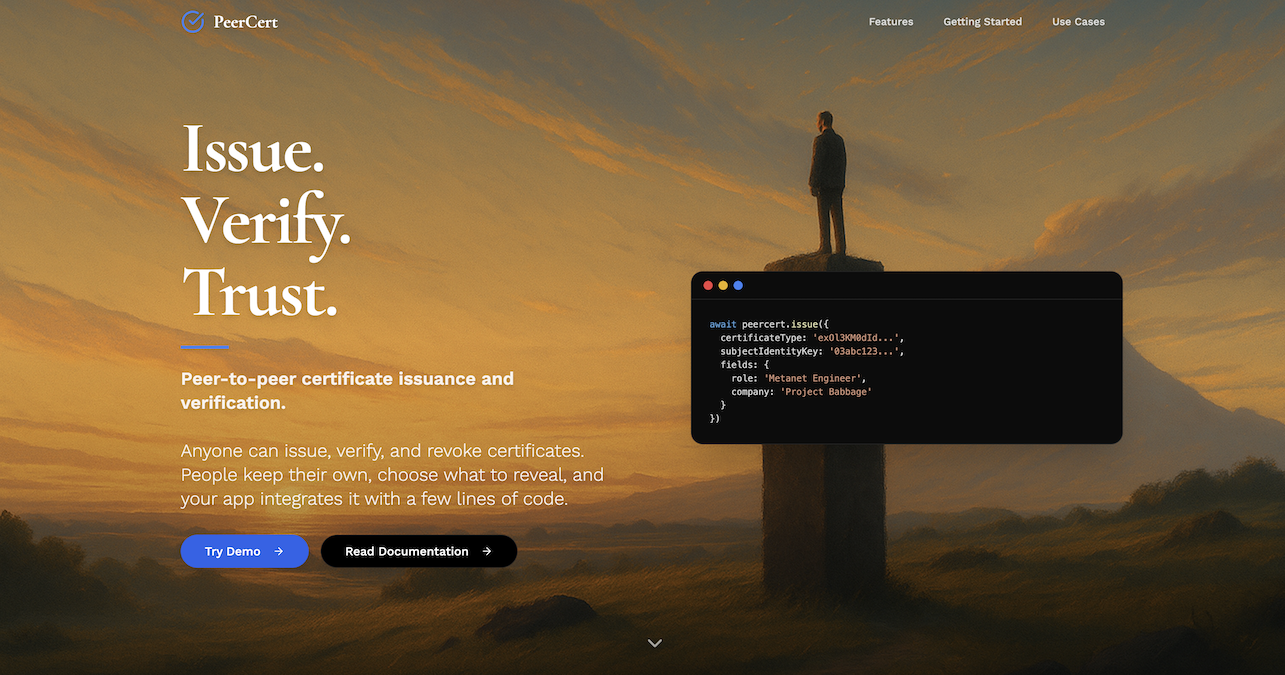
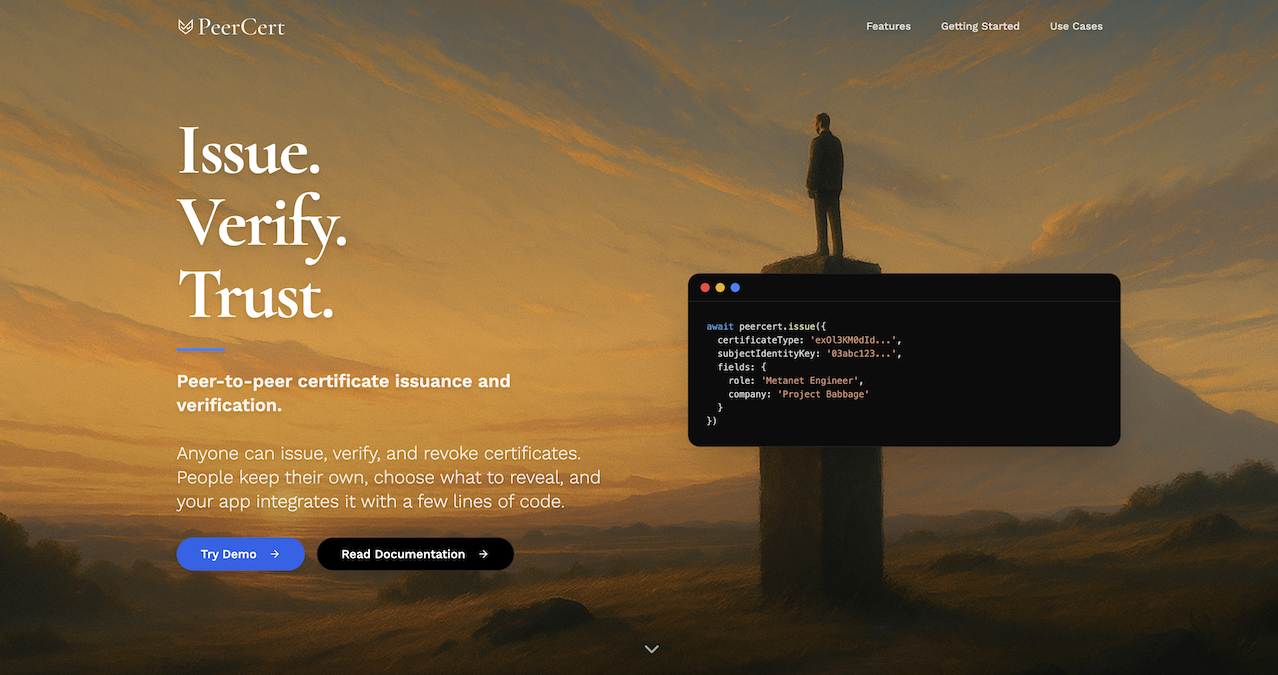
Optimize deps

diff --git a/frontend/src/components/Header.tsx b/frontend/src/components/Header.tsx
@@ -1,5 +1,5 @@
 import { Button } from "@/components/ui/button";
-import { CheckCircle } from "lucide-react";
+import peercertLogo from "@/assets/peercertLogo.png";
 import { useState, useEffect } from "react";
 import { Link } from "react-router-dom";
 const Header = () => {
@@ -23,9 +23,12 @@ const Header = () => {
   return <header className={`fixed top-0 w-full z-50 transition-transform duration-300 ${isVisible ? 'translate-y-0' : '-translate-y-full'}`}>
     <nav className="max-w-7xl mx-auto px-4 sm:px-6 py-5 flex items-center justify-between">
       {/* Logo */}
-      <div className="flex items-center gap-2 sm:gap-3">
-        <CheckCircle className="w-6 h-6 sm:w-8 sm:h-8 text-blue-500 drop-shadow-md" />
-        <span className="font-serif text-lg sm:text-2xl font-bold text-white drop-shadow-lg">PeerCert</span>
+      <div className="flex items-center">
+        <img
+          src={peercertLogo}
+          alt="PeerCert logo"
+          className="h-9 sm:h-10 w-auto drop-shadow-lg"
+        />
       </div>
 
       {/* Navigation */}

diff --git a/frontend/src/demo/SearchPublicCertificates.tsx b/frontend/src/demo/SearchPublicCertificates.tsx
@@ -425,14 +425,21 @@ export default function SearchPublicCertificates({ wallet: providedWallet }: Sea
 
                       <div className="flex-1">
                         <div className="flex items-start justify-between mb-2">
-                          <h4 className="font-semibold text-gray-900">{cert.certifierInfo.name}</h4>
+                          {/* Subject as the primary identity */}
+                          <h4 className="font-semibold text-gray-900 break-all">
+                            Subject: {cert.subject}
+                          </h4>
                           <div className="flex items-center gap-1">
                             <Award className="w-4 h-4 text-yellow-500" />
                             <span className="text-sm text-gray-600">Trust: {cert.certifierInfo.trust}</span>
                           </div>
                         </div>
 
-                        <p className="text-gray-600 text-sm mb-3">{cert.certifierInfo.description}</p>
+                        {/* Certifier as secondary context */}
+                        <p className="text-gray-600 text-sm mb-1">
+                          Issued by <span className="font-medium">{cert.certifierInfo.name}</span>
+                        </p>
+                        <p className="text-gray-600 text-xs mb-3">{cert.certifierInfo.description}</p>
 
                         <div className="space-y-2 mb-3 text-xs text-gray-500 font-mono">
                           <p className="break-all">Type: {cert.type}</p>

diff --git a/frontend/src/components/Footer.tsx b/frontend/src/components/Footer.tsx
@@ -1,4 +1,5 @@
 import { Github, Twitter, Mail } from "lucide-react";
+import peercertLogo from "@/assets/peercertLogo.png";
 const Footer = () => {
   return <footer className="border-t border-border">
     <div className="max-w-7xl mx-auto px-6 py-20">
@@ -6,8 +7,11 @@ const Footer = () => {
         {/* Brand */}
         <div className="md:col-span-5 space-y-6">
           <div className="flex items-center gap-3">
-            <div className="w-10 h-10 bg-blue-500 rounded-sm" />
-            <span className="font-serif text-2xl font-bold">PeerCert</span>
+            <img
+              src={peercertLogo}
+              alt="PeerCert logo"
+              className="h-9 w-auto"
+            />
           </div>
           <p className="text-muted-foreground font-light leading-relaxed max-w-md">
             Peer-to-peer certificate issuance and management.

diff --git a/frontend/src/components/Hero.tsx b/frontend/src/components/Hero.tsx
@@ -1,6 +1,6 @@
 import { Button } from "@/components/ui/button";
-import { ArrowRight, Github, ChevronDown } from "lucide-react";
-import heroBackground from "@/assets/hero-background.png";
+import { ArrowRight, ChevronDown } from "lucide-react";
+import heroBackground from "@/assets/hero-background.webp";
 import { Prism as SyntaxHighlighter } from 'react-syntax-highlighter';
 import { vscDarkPlus } from 'react-syntax-highlighter/dist/esm/styles/prism';
 import { Link } from "react-router-dom";

diff --git a/frontend/src/components/CTA.tsx b/frontend/src/components/CTA.tsx
@@ -1,7 +1,7 @@
 import { Button } from "@/components/ui/button";
 import { ArrowRight } from "lucide-react";
 import { Link } from "react-router-dom";
-import ctaBackground from "@/assets/cta-background.png";
+import ctaBackground from "@/assets/cta-background.webp";
 import { Prism as SyntaxHighlighter } from 'react-syntax-highlighter';
 import { vscDarkPlus } from 'react-syntax-highlighter/dist/esm/styles/prism';
 const CTA = () => {